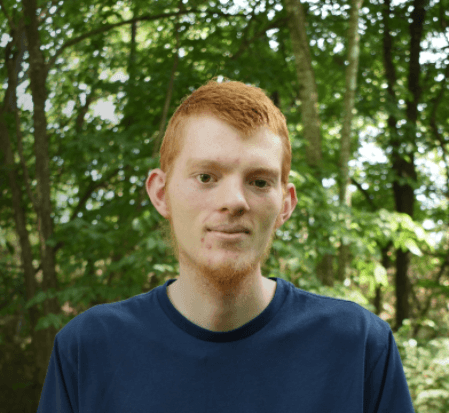
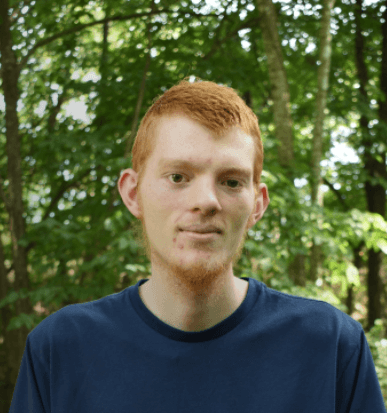
deploy: 9d274d4a9d06a4c847d0a33bc1ee0ec2850e0132

diff --git a/about/index.html b/about/index.html
@@ -1,5 +1,5 @@
-<!doctype html><html lang=en><head><meta charset=utf-8><meta name=viewport content="width=device-width,initial-scale=1"><meta http-equiv=x-ua-compatible content="IE=edge"><title>About | Noah Rahm</title><meta name=author content="Noah Rahm"><meta property="og:title" content="About"><meta property="og:description" content="Hello! I&rsquo;m Noah, a web designer and developer based in the U.S."><meta property="og:type" content="article"><meta property="og:url" content="https://noahrahm.com/about/"><meta property="article:section" content><link rel=alternate type=application/rss+xml href=https://noahrahm.com/index.xml title="Noah Rahm"><link rel=preconnect href=api.fonts.coollabs.io crossorigin><link href="https://api.fonts.coollabs.io/css2?family=Figtree:wght@400;500;600;700&&display=swap" rel=stylesheet><link href=https://noahrahm.com/assets/style.css rel=stylesheet><script defer src=https://unpkg.com/alpinejs@3.10.5/dist/cdn.min.js></script></head><body><header><nav x-data="{ navOpen: false }" class="w-full bg-white"><div class="max-w-6xl mx-auto px-5 border-b-2 border-gray-200"><div class="flex justify-between"><div class="flex space-x-4"><div class=my-auto><a href=https://noahrahm.com/ class="flex items-center px-2 my-auto"><h4 class="text-2xl font-bold text-gray-700 hover:text-accent ease-in-out duration-300">Noah Rahm</h4></a></div></div><div class="hidden md:flex items-center space-x-3"><a href=https://noahrahm.com/about/ class="my-4 px-3 py-1 text-gray-600 hover:text-accent hover:bg-gray-100 rounded-md ease-in-out duration-300">About</a>
+<!doctype html><html lang=en><head><meta charset=utf-8><meta name=viewport content="width=device-width,initial-scale=1"><meta http-equiv=x-ua-compatible content="IE=edge"><title>Hi, I'm Noah Rahm. An independent web designer and developer. | Noah Rahm</title><meta name=author content="Noah Rahm"><meta property="og:title" content="Hi, I'm Noah Rahm. An independent web designer and developer."><meta property="og:description" content="I help clients in the US and abroad to create meaningful digital experiences and printed materials."><meta property="og:type" content="article"><meta property="og:url" content="https://noahrahm.com/about/"><meta property="article:section" content><link rel=alternate type=application/rss+xml href=https://noahrahm.com/index.xml title="Noah Rahm"><link rel=preconnect href=api.fonts.coollabs.io crossorigin><link href="https://api.fonts.coollabs.io/css2?family=Figtree:wght@400;500;600;700&&display=swap" rel=stylesheet><link href=https://noahrahm.com/assets/style.css rel=stylesheet><script defer src=https://unpkg.com/alpinejs@3.10.5/dist/cdn.min.js></script></head><body><header><nav x-data="{ navOpen: false }" class="w-full bg-white"><div class="max-w-6xl mx-auto px-5 border-b-2 border-gray-200"><div class="flex justify-between"><div class="flex space-x-4"><div class=my-auto><a href=https://noahrahm.com/ class="flex items-center px-2 my-auto"><h4 class="text-2xl font-bold text-gray-700 hover:text-accent ease-in-out duration-300">Noah Rahm</h4></a></div></div><div class="hidden md:flex items-center space-x-3"><a href=https://noahrahm.com/about/ class="my-4 px-3 py-1 text-gray-600 hover:text-accent hover:bg-gray-100 rounded-md ease-in-out duration-300">About</a>
 <a href=https://noahrahm.com/work/ class="my-4 px-3 py-1 text-gray-600 hover:text-accent hover:bg-gray-100 rounded-md ease-in-out duration-300">Work</a>
 <a href=https://noahrahm.com/posts/ class="my-4 px-3 py-1 text-gray-600 hover:text-accent hover:bg-gray-100 rounded-md ease-in-out duration-300">Posts</a></div><button class="inline md:hidden py-4 px-2 focus:outline-none focus:bg-white" aria-label="Main menu" aria-expanded=false @click="navOpen = !navOpen" :class="{ 'bg-gray-200' : navOpen }"><svg class="h-8 w-8 stroke-gray-600" :class="{ 'hidden' : navOpen }" fill="none" viewBox="0 0 24 24" stroke="currentcolor"><path stroke-linecap="round" stroke-linejoin="round" stroke-width="2" d="M4 6h16M4 12h16M4 18h16"/></svg><svg class="hidden h-8 w-8 stroke-gray-600" :class="{ 'hidden' : !navOpen }" fill="none" viewBox="0 0 24 24" stroke="currentcolor"><path stroke-linecap="round" stroke-linejoin="round" stroke-width="2" d="M6 18 18 6M6 6l12 12"/></svg></button></div></div><div class="flex flex-col text-center md:hidden text-xl pb-8 bg-white border-b-2" :class="{ 'block' : navOpen , 'hidden' : !navOpen }"><a href=https://noahrahm.com/about/ class="py-5 px-3 text-gray-700 hover:text-accent ease-in-out duration-500">About</a>
 <a href=https://noahrahm.com/work/ class="py-5 px-3 text-gray-700 hover:text-accent ease-in-out duration-500">My Work</a>
-<a href=https://noahrahm.com/posts/ class="py-5 px-3 text-gray-700 hover:text-accent ease-in-out duration-500">Posts</a></div></nav></header><div class="relative max-w-6xl mx-auto space-y-4 mt-4"><div class="flex flex-col mx-2 lg:mx-0 pt-12"><h1 class="font-bold text-4xl md:text-5xl ml-8 text-gray-800">About</h1></div><div class="markdown-content flex flex-col mx-8 md:mx-0 mt-6"><div class="flex ml-0 md:ml-8"><div class="max-w-3xl mt-4 markdown-content"><p>Hello! I&rsquo;m Noah, a web designer and developer based in the U.S.</p><p>I love doing meaningful work that glorifies Yahweh our Heavenly Father, and inspires and helps others. I&rsquo;ve been blessed to work on a variety of <a href=https://noahrahm.com/work/>projects</a> from custom web applications to logo designs. I also develop an Android app to create time lapse videos, called <a href=https://velocitylapse.com>Velocity Lapse</a>.</p><p>Creating things, collaborating with others, and learning new technologies motivates me to create and contribute to open-source software projects, most notably <a href=https://gimelstudio.github.io>Gimel Studio</a>, <a href=https://flameshot.org>Flameshot</a>, and <a href=https://biblenotify.github.io>Bible Notify</a>.</p><p>Some of my hobbies include photography, drawing, music, and enjoying the outdoors.</p><p>I&rsquo;m open to collaboration and new client work, so feel free to <a href=mailto:hi@noahrahm.com>get in touch</a>.</p></div></div></div></div><footer class="max-w-6xl flex flex-col sm:flex-row items-center justify-between mx-auto px-5 border-t-2 border-gray-200 py-8 px-10 mt-20"><div class="flex flex-col order-1 sm:order-0 self-center mt-5 sm:mt-0 text-center sm:text-left"><p class=text-gray-600>&copy; 2023 Noah Rahm</p><small class="text-gray-600 text-sm"><a class="duration-300 hover:text-accentdark" href=https://noahrahm.com/privacy/>Privacy</a> &bull; <a class="hover:text-accentdark duration-300" href=https://noahrahm.com/colophon/>Site colophon</a></small></div><div class="flex order-0 sm:order-1 inline space-x-3 items-center"><a class="w-7 h-7 fill-gray-700 ease-in-out duration-300 hover:fill-gray-800" href=https://github.com/Correct-Syntax><svg role="img" viewBox="0 0 24 24" xmlns="http://www.w3.org/2000/svg"><title>GitHub</title><path d="M12 .297c-6.63.0-12 5.373-12 12 0 5.303 3.438 9.8 8.205 11.385.6.113.82-.258.82-.577.0-.285-.01-1.04-.015-2.04-3.338.724-4.042-1.61-4.042-1.61C4.422 18.07 3.633 17.7 3.633 17.7c-1.087-.744.084-.729.084-.729 1.205.084 1.838 1.236 1.838 1.236 1.07 1.835 2.809 1.305 3.495.998.108-.776.417-1.305.76-1.605-2.665-.3-5.466-1.332-5.466-5.93.0-1.31.465-2.38 1.235-3.22-.135-.303-.54-1.523.105-3.176.0.0 1.005-.322 3.3 1.23.96-.267 1.98-.399 3-.405 1.02.006 2.04.138 3 .405 2.28-1.552 3.285-1.23 3.285-1.23.645 1.653.24 2.873.12 3.176.765.84 1.23 1.91 1.23 3.22.0 4.61-2.805 5.625-5.475 5.92.42.36.81 1.096.81 2.22.0 1.606-.015 2.896-.015 3.286.0.315.21.69.825.57C20.565 22.092 24 17.592 24 12.297c0-6.627-5.373-12-12-12"/></svg></a><a class="w-7 h-7 fill-gray-700 ease-in-out duration-300 hover:fill-gray-800" href=https://stackoverflow.com/users/12787591/correctsyntax><svg role="img" viewBox="0 0 24 24" xmlns="http://www.w3.org/2000/svg"><title>Stack Overflow</title><path d="M15.725.0l-1.72 1.277 6.39 8.588 1.716-1.277L15.725.0zm-3.94 3.418-1.369 1.644 8.225 6.85 1.369-1.644-8.225-6.85zm-3.15 4.465-.905 1.94 9.702 4.517.904-1.94-9.701-4.517zm-1.85 4.86-.44 2.093 10.473 2.201.44-2.092-10.473-2.203zM1.89 15.47V24h19.19v-8.53h-2.133v6.397H4.021v-6.396H1.89zm4.265 2.133v2.13h10.66v-2.13H6.154z"/></svg></a><a class="w-7 h-7 fill-gray-700 ease-in-out duration-300 hover:fill-gray-800" href=https://www.linkedin.com/in/noah-r-designer-developer/><svg role="img" viewBox="0 0 24 24" xmlns="http://www.w3.org/2000/svg"><title>LinkedIn</title><path d="M20.447 20.452h-3.554v-5.569c0-1.328-.027-3.037-1.852-3.037-1.853.0-2.136 1.445-2.136 2.939v5.667H9.351V9h3.414v1.561h.046c.477-.9 1.637-1.85 3.37-1.85 3.601.0 4.267 2.37 4.267 5.455v6.286zM5.337 7.433c-1.144.0-2.063-.926-2.063-2.065.0-1.138.92-2.063 2.063-2.063 1.14.0 2.064.925 2.064 2.063.0 1.139-.925 2.065-2.064 2.065zm1.782 13.019H3.555V9h3.564v11.452zM22.225.0H1.771C.792.0.0.774.0 1.729v20.542C0 23.227.792 24 1.771 24h20.451C23.2 24 24 23.227 24 22.271V1.729C24 .774 23.2.0 22.222.0h.003z"/></svg></a><a class="w-7 h-7 fill-gray-700 ease-in-out duration-300 hover:fill-gray-800" href=https://dribbble.com/correctsyntax><svg role="img" viewBox="0 0 24 24" xmlns="http://www.w3.org/2000/svg"><title>Dribbble</title><path d="M12 24C5.385 24 0 18.615.0 12S5.385.0 12 0s12 5.385 12 12-5.385 12-12 12zm10.12-10.358c-.35-.11-3.17-.953-6.384-.438 1.34 3.684 1.887 6.684 1.992 7.308 2.3-1.555 3.936-4.02 4.395-6.87zm-6.115 7.808c-.153-.9-.75-4.032-2.19-7.77l-.066.02c-5.79 2.015-7.86 6.025-8.04 6.4 1.73 1.358 3.92 2.166 6.29 2.166 1.42.0 2.77-.29 4-.814zm-11.62-2.58c.232-.4 3.045-5.055 8.332-6.765.135-.045.27-.084.405-.12-.26-.585-.54-1.167-.832-1.74C7.17 11.775 2.206 11.71 1.756 11.7l-.004.312c0 2.633.998 5.037 2.634 6.855zm-2.42-8.955c.46.008 4.683.026 9.477-1.248-1.698-3.018-3.53-5.558-3.8-5.928-2.868 1.35-5.01 3.99-5.676 7.17zM9.6 2.052c.282.38 2.145 2.914 3.822 6 3.645-1.365 5.19-3.44 5.373-3.702-1.81-1.61-4.19-2.586-6.795-2.586-.825.0-1.63.1-2.4.285zm10.335 3.483c-.218.29-1.935 2.493-5.724 4.04.24.49.47.985.68 1.486.08.18.15.36.22.53 3.41-.43 6.8.26 7.14.33-.02-2.42-.88-4.64-2.31-6.38z"/></svg></a></div></footer></body></html>
+<a href=https://noahrahm.com/posts/ class="py-5 px-3 text-gray-700 hover:text-accent ease-in-out duration-500">Posts</a></div></nav></header><div class="relative flex flex-col md:flex-row max-w-6xl mx-auto pt-16 px-8"><div class="w-full md:w-1/3 pr-12 lg:pr-20"><img class="w-auto h-auto rounded-md" src=https://noahrahm.com/assets/me.png alt=Me></div><div class="w-full md:w-2/3 max-w-2xl mt-10 md:mt-0"><h1 class="font-bold text-3xl text-gray-700 md:text-4xl">Hi, I'm Noah Rahm. An independent web designer and developer.</h1><div class="flex flex-col"><div class="markdown-content mt-5 mx-auto"><p>I help clients in the US and abroad to create meaningful digital experiences and printed materials.</p><p>Based in the central United States, I provide custom design and development <a href=https://noahrahm.com/services/>services</a> for organizations, startups, and businesses.</p><p>I&rsquo;m currently open to collaboration and new client work, so feel free to <a href=mailto:hi@noahrahm.com>get in touch</a> to chat about your project or just say hello.</p><h4 id=personal>Personal</h4><p>I love working on meaningful <a href=https://noahrahm.com/work/>projects</a> that glorify our Heavenly Father Yahweh and have a positive impact on others.</p><p>A few of my hobbies outside of work include: photography, drawing, music, and enjoying Yahweh&rsquo;s awesome creation (the great outdoors).</p><h4 id=other-endeavors>Other endeavors</h4><p>I&rsquo;m the creator, developer, and designer of <a href=https://velocitylapse.com>Velocity Lapse</a>, an Android app to create time lapses.</p><p>Creating things, collaborating with others, and learning new tech motivates me to create and contribute to open-source projects. Most notably: <a href=https://gimelstudio.github.io>Gimel Studio</a>, <a href=https://flameshot.org>Flameshot</a>, and <a href=https://biblenotify.github.io>Bible Notify</a>.</p></div></div></div></div><footer class="max-w-6xl flex flex-col sm:flex-row items-center justify-between mx-auto px-5 border-t-2 border-gray-200 py-8 px-10 mt-20"><div class="flex flex-col order-1 sm:order-0 self-center mt-5 sm:mt-0 text-center sm:text-left"><p class=text-gray-600>&copy; 2023 Noah Rahm</p><small class="text-gray-600 text-sm"><a class="duration-300 hover:text-accentdark" href=https://noahrahm.com/privacy/>Privacy</a> &bull; <a class="hover:text-accentdark duration-300" href=https://noahrahm.com/colophon/>Site colophon</a></small></div><div class="flex order-0 sm:order-1 inline space-x-3 items-center"><a class="w-7 h-7 fill-gray-700 ease-in-out duration-300 hover:fill-gray-800" href=https://github.com/Correct-Syntax><svg role="img" viewBox="0 0 24 24" xmlns="http://www.w3.org/2000/svg"><title>GitHub</title><path d="M12 .297c-6.63.0-12 5.373-12 12 0 5.303 3.438 9.8 8.205 11.385.6.113.82-.258.82-.577.0-.285-.01-1.04-.015-2.04-3.338.724-4.042-1.61-4.042-1.61C4.422 18.07 3.633 17.7 3.633 17.7c-1.087-.744.084-.729.084-.729 1.205.084 1.838 1.236 1.838 1.236 1.07 1.835 2.809 1.305 3.495.998.108-.776.417-1.305.76-1.605-2.665-.3-5.466-1.332-5.466-5.93.0-1.31.465-2.38 1.235-3.22-.135-.303-.54-1.523.105-3.176.0.0 1.005-.322 3.3 1.23.96-.267 1.98-.399 3-.405 1.02.006 2.04.138 3 .405 2.28-1.552 3.285-1.23 3.285-1.23.645 1.653.24 2.873.12 3.176.765.84 1.23 1.91 1.23 3.22.0 4.61-2.805 5.625-5.475 5.92.42.36.81 1.096.81 2.22.0 1.606-.015 2.896-.015 3.286.0.315.21.69.825.57C20.565 22.092 24 17.592 24 12.297c0-6.627-5.373-12-12-12"/></svg></a><a class="w-7 h-7 fill-gray-700 ease-in-out duration-300 hover:fill-gray-800" href=https://stackoverflow.com/users/12787591/correctsyntax><svg role="img" viewBox="0 0 24 24" xmlns="http://www.w3.org/2000/svg"><title>Stack Overflow</title><path d="M15.725.0l-1.72 1.277 6.39 8.588 1.716-1.277L15.725.0zm-3.94 3.418-1.369 1.644 8.225 6.85 1.369-1.644-8.225-6.85zm-3.15 4.465-.905 1.94 9.702 4.517.904-1.94-9.701-4.517zm-1.85 4.86-.44 2.093 10.473 2.201.44-2.092-10.473-2.203zM1.89 15.47V24h19.19v-8.53h-2.133v6.397H4.021v-6.396H1.89zm4.265 2.133v2.13h10.66v-2.13H6.154z"/></svg></a><a class="w-7 h-7 fill-gray-700 ease-in-out duration-300 hover:fill-gray-800" href=https://www.linkedin.com/in/noah-r-designer-developer/><svg role="img" viewBox="0 0 24 24" xmlns="http://www.w3.org/2000/svg"><title>LinkedIn</title><path d="M20.447 20.452h-3.554v-5.569c0-1.328-.027-3.037-1.852-3.037-1.853.0-2.136 1.445-2.136 2.939v5.667H9.351V9h3.414v1.561h.046c.477-.9 1.637-1.85 3.37-1.85 3.601.0 4.267 2.37 4.267 5.455v6.286zM5.337 7.433c-1.144.0-2.063-.926-2.063-2.065.0-1.138.92-2.063 2.063-2.063 1.14.0 2.064.925 2.064 2.063.0 1.139-.925 2.065-2.064 2.065zm1.782 13.019H3.555V9h3.564v11.452zM22.225.0H1.771C.792.0.0.774.0 1.729v20.542C0 23.227.792 24 1.771 24h20.451C23.2 24 24 23.227 24 22.271V1.729C24 .774 23.2.0 22.222.0h.003z"/></svg></a><a class="w-7 h-7 fill-gray-700 ease-in-out duration-300 hover:fill-gray-800" href=https://dribbble.com/correctsyntax><svg role="img" viewBox="0 0 24 24" xmlns="http://www.w3.org/2000/svg"><title>Dribbble</title><path d="M12 24C5.385 24 0 18.615.0 12S5.385.0 12 0s12 5.385 12 12-5.385 12-12 12zm10.12-10.358c-.35-.11-3.17-.953-6.384-.438 1.34 3.684 1.887 6.684 1.992 7.308 2.3-1.555 3.936-4.02 4.395-6.87zm-6.115 7.808c-.153-.9-.75-4.032-2.19-7.77l-.066.02c-5.79 2.015-7.86 6.025-8.04 6.4 1.73 1.358 3.92 2.166 6.29 2.166 1.42.0 2.77-.29 4-.814zm-11.62-2.58c.232-.4 3.045-5.055 8.332-6.765.135-.045.27-.084.405-.12-.26-.585-.54-1.167-.832-1.74C7.17 11.775 2.206 11.71 1.756 11.7l-.004.312c0 2.633.998 5.037 2.634 6.855zm-2.42-8.955c.46.008 4.683.026 9.477-1.248-1.698-3.018-3.53-5.558-3.8-5.928-2.868 1.35-5.01 3.99-5.676 7.17zM9.6 2.052c.282.38 2.145 2.914 3.822 6 3.645-1.365 5.19-3.44 5.373-3.702-1.81-1.61-4.19-2.586-6.795-2.586-.825.0-1.63.1-2.4.285zm10.335 3.483c-.218.29-1.935 2.493-5.724 4.04.24.49.47.985.68 1.486.08.18.15.36.22.53 3.41-.43 6.8.26 7.14.33-.02-2.42-.88-4.64-2.31-6.38z"/></svg></a></div></footer></body></html>
